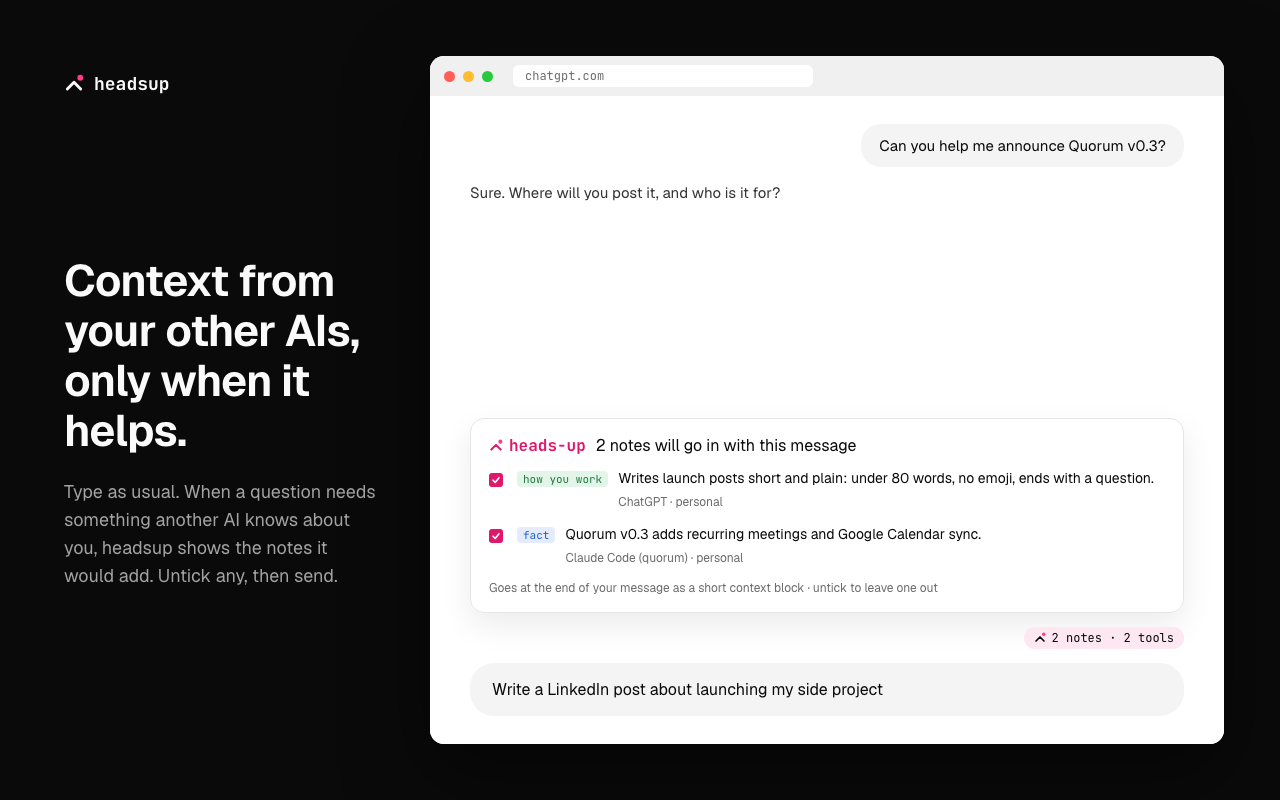
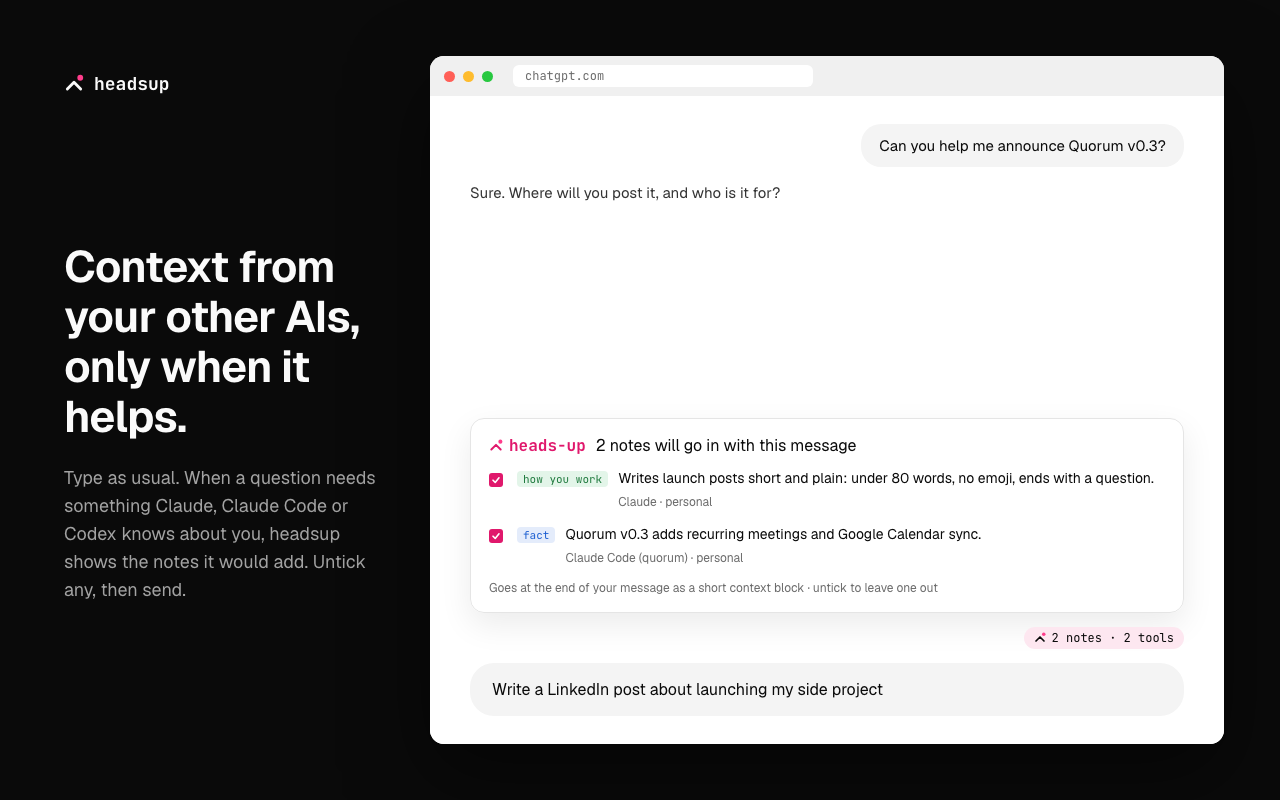
Redraw the store screenshots for current behavior
- The composer shot showed ChatGPT getting its own note back, which headsup
  never does; the writing note now comes from Claude
- The popup shot follows the real popup: both sync rows, About me with its
  preview link, Share my card, the headsup review footer
- The comparison shot uses the README's cover letter: without headsup the
  answer asks three questions, with it the internship and side project from
  Claude Code are in the letter

Claude-Session: https://claude.ai/code/session_01GyAvKzocYKibMHwLEW817N

Changed region(s): [[0.0312, 0.3125, 0.2812, 0.5625], [0.0312, 0.5938, 0.3125, 0.75], [0.5, 0.625, 0.5625, 0.6562]]

diff --git a/store/assets/src/screenshot-2-popup.html b/store/assets/src/screenshot-2-popup.html
@@ -9,10 +9,10 @@
 .bar{height:40px;background:#f0f0f0;display:flex;align-items:center;gap:8px;padding:0 14px}.d{width:11px;height:11px;border-radius:6px}
 .url{margin-left:12px;background:#fff;border-radius:6px;padding:3px 12px;font:12px JBM;color:#6b6b6b;width:300px}
 .mono{font-family:JBM}.mut{color:#6b6b6b}.tag{font:11px JBM;padding:1px 6px;border-radius:4px}
-</style><div class="frame"><div class="cap"><div class="brand"><svg width="20" height="20" viewBox="0 0 24 24" style="flex:none"><path d="M4 18 12 10l8 8" fill="none" stroke="#fafafa" stroke-width="3.4" stroke-linecap="round" stroke-linejoin="round"/><circle cx="19.5" cy="4.5" r="3.5" fill="#FF3D8B"/></svg>headsup</div><div style="flex:1"></div><h1>Your notes stay on your computer.</h1><p>Plain Markdown files, managed by the free headsup app. No server, no account, no analytics. Work facts wait for your OK before they cross over.</p><div style="flex:1"></div></div><div class="stage" style="justify-content:center;background:radial-gradient(circle at 60% 50%,#1a0a12,#0a0a0a 70%)"><div style="width:380px;background:#0a0a0a;border:1px solid #262626;border-radius:14px;padding:18px;display:flex;flex-direction:column;gap:14px;font-size:13px;line-height:18px;box-shadow:0 30px 80px rgba(0,0,0,.6)">
+</style><div class="frame"><div class="cap"><div class="brand"><svg width="20" height="20" viewBox="0 0 24 24" style="flex:none"><path d="M4 18 12 10l8 8" fill="none" stroke="#fafafa" stroke-width="3.4" stroke-linecap="round" stroke-linejoin="round"/><circle cx="19.5" cy="4.5" r="3.5" fill="#FF3D8B"/></svg>headsup</div><div style="flex:1"></div><h1>Your notes stay on your computer.</h1><p>Plain Markdown files, managed by the free headsup app. No server, no account, no analytics. Work and personal stay apart: work facts wait for your OK before they cross over.</p><div style="flex:1"></div></div><div class="stage" style="justify-content:center;background:radial-gradient(circle at 60% 50%,#1a0a12,#0a0a0a 70%)"><div style="width:380px;background:#0a0a0a;border:1px solid #262626;border-radius:14px;padding:18px;display:flex;flex-direction:column;gap:14px;font-size:13px;line-height:18px;box-shadow:0 30px 80px rgba(0,0,0,.6)">
 <div style="display:flex;justify-content:space-between"><span class="mono" style="display:flex;gap:7px;align-items:center;font-weight:700"><svg width="14" height="14" viewBox="0 0 24 24" style="flex:none"><path d="M4 18 12 10l8 8" fill="none" stroke="#fafafa" stroke-width="3.4" stroke-linecap="round" stroke-linejoin="round"/><circle cx="19.5" cy="4.5" r="3.5" fill="#FF3D8B"/></svg>headsup</span><span style="display:flex;gap:6px;align-items:center;color:#8f8f8f;font-size:12px"><span style="width:7px;height:7px;border-radius:4px;background:#4ade80"></span>Connected</span></div>
 <span style="color:#8f8f8f;font-size:12px">214 notes on this computer · sharing: Balanced</span><div style="height:1px;background:#262626"></div>
 <div class="mono" style="font-size:11px;letter-spacing:.06em;color:#8f8f8f">ON THIS SITE</div><div style="display:flex;justify-content:space-between;gap:16px"><div><div style="font-weight:500">Add context on chatgpt.com</div><div style="color:#8f8f8f;font-size:12px;line-height:17px">Shows the headsup mark when your notes can help.</div></div><span style="flex:none;width:32px;height:18px;border-radius:9px;background:#ff3d8b;position:relative"><span style="position:absolute;top:2px;left:16px;width:14px;height:14px;border-radius:7px;background:#fff"></span></span></div><div style="height:1px;background:#262626"></div>
-<div class="mono" style="font-size:11px;letter-spacing:.06em;color:#8f8f8f">KEEP IN SYNC</div><div style="display:flex;justify-content:space-between;gap:16px"><div><div style="font-weight:500">Capture new ChatGPT chats</div><div style="color:#8f8f8f;font-size:12px;line-height:17px">Phone and desktop app chats too. Caught up 10:40.</div></div><span style="flex:none;width:32px;height:18px;border-radius:9px;background:#ff3d8b;position:relative"><span style="position:absolute;top:2px;left:16px;width:14px;height:14px;border-radius:7px;background:#fff"></span></span></div><div style="display:flex;justify-content:space-between;gap:16px"><div><div style="font-weight:500">Keep “About me” current</div><div style="color:#8f8f8f;font-size:12px;line-height:17px">In ChatGPT and Claude, so their apps know how you work.</div></div><span style="flex:none;width:32px;height:18px;border-radius:9px;background:#ff3d8b;position:relative"><span style="position:absolute;top:2px;left:16px;width:14px;height:14px;border-radius:7px;background:#fff"></span></span></div><div style="height:1px;background:#262626"></div>
-<div class="mono" style="font-size:11px;letter-spacing:.06em;color:#8f8f8f">TODAY</div><div class="mono" style="display:flex;flex-direction:column;gap:8px;font-size:12px"><span><span style="color:#8f8f8f">10:42</span>&nbsp; Claude Code → ChatGPT · 2 notes</span><span><span style="color:#8f8f8f">09:15</span>&nbsp; ChatGPT → Claude Code · writing voice</span><span><span style="color:#8f8f8f">08:03</span>&nbsp; 1 work note asked · you said not now</span></div><div style="height:1px;background:#262626"></div>
-<span style="color:#8f8f8f;font-size:11px;line-height:16px">Notes stay on this computer. New chats are summarized with your own Claude login.</span></div></div></div>
+<div class="mono" style="font-size:11px;letter-spacing:.06em;color:#8f8f8f">KEEP IN SYNC</div><div style="display:flex;justify-content:space-between;gap:16px"><div><div style="font-weight:500">Capture new ChatGPT chats</div><div style="color:#8f8f8f;font-size:12px;line-height:17px">Phone and desktop app chats too. Caught up 10:40.</div></div><span style="flex:none;width:32px;height:18px;border-radius:9px;background:#ff3d8b;position:relative"><span style="position:absolute;top:2px;left:16px;width:14px;height:14px;border-radius:7px;background:#fff"></span></span></div><div style="display:flex;justify-content:space-between;gap:16px"><div><div style="font-weight:500">Capture new Claude chats</div><div style="color:#8f8f8f;font-size:12px;line-height:17px">Caught up 09:12.</div></div><span style="flex:none;width:32px;height:18px;border-radius:9px;background:#ff3d8b;position:relative"><span style="position:absolute;top:2px;left:16px;width:14px;height:14px;border-radius:7px;background:#fff"></span></span></div><div style="display:flex;justify-content:space-between;gap:16px"><div><div style="font-weight:500">Keep “About me” current</div><div style="color:#8f8f8f;font-size:12px;line-height:17px">12 lines in ChatGPT and Claude. <span style="color:#ff3d8b">See what it writes →</span></div></div><span style="flex:none;width:32px;height:18px;border-radius:9px;background:#ff3d8b;position:relative"><span style="position:absolute;top:2px;left:16px;width:14px;height:14px;border-radius:7px;background:#fff"></span></span></div><div style="height:1px;background:#262626"></div>
+<span style="color:#ff3d8b;font-size:13px;font-weight:500">Share my card →</span>
+<span style="color:#8f8f8f;font-size:11px;line-height:16px">Notes stay on this computer. See what was shared where: <span class="mono">headsup review</span></span></div></div></div>

diff --git a/store/assets/src/screenshot-1-composer.html b/store/assets/src/screenshot-1-composer.html
@@ -9,11 +9,11 @@
 .bar{height:40px;background:#f0f0f0;display:flex;align-items:center;gap:8px;padding:0 14px}.d{width:11px;height:11px;border-radius:6px}
 .url{margin-left:12px;background:#fff;border-radius:6px;padding:3px 12px;font:12px JBM;color:#6b6b6b;width:300px}
 .mono{font-family:JBM}.mut{color:#6b6b6b}.tag{font:11px JBM;padding:1px 6px;border-radius:4px}
-</style><div class="frame"><div class="cap"><div class="brand"><svg width="20" height="20" viewBox="0 0 24 24" style="flex:none"><path d="M4 18 12 10l8 8" fill="none" stroke="#fafafa" stroke-width="3.4" stroke-linecap="round" stroke-linejoin="round"/><circle cx="19.5" cy="4.5" r="3.5" fill="#FF3D8B"/></svg>headsup</div><div style="flex:1"></div><h1>Context from your other AIs, only when it helps.</h1><p>Type as usual. When a question needs something another AI knows about you, headsup shows the notes it would add. Untick any, then send.</p><div style="flex:1"></div></div><div class="stage"><div class="win"><div class="bar"><span class="d" style="background:#ff5f57"></span><span class="d" style="background:#febc2e"></span><span class="d" style="background:#28c840"></span><span class="url">chatgpt.com</span></div>
+</style><div class="frame"><div class="cap"><div class="brand"><svg width="20" height="20" viewBox="0 0 24 24" style="flex:none"><path d="M4 18 12 10l8 8" fill="none" stroke="#fafafa" stroke-width="3.4" stroke-linecap="round" stroke-linejoin="round"/><circle cx="19.5" cy="4.5" r="3.5" fill="#FF3D8B"/></svg>headsup</div><div style="flex:1"></div><h1>Context from your other AIs, only when it helps.</h1><p>Type as usual. When a question needs something Claude, Claude Code or Codex knows about you, headsup shows the notes it would add. Untick any, then send.</p><div style="flex:1"></div></div><div class="stage"><div class="win"><div class="bar"><span class="d" style="background:#ff5f57"></span><span class="d" style="background:#febc2e"></span><span class="d" style="background:#28c840"></span><span class="url">chatgpt.com</span></div>
 <div style="flex:1;display:flex;flex-direction:column;justify-content:flex-end;padding:28px 40px;gap:14px;background:#fff"><div style="align-self:flex-end;max-width:70%;border-radius:20px;background:#f4f4f4;padding:12px 18px;font-size:15px">Can you help me announce Quorum v0.3?</div><div style="font-size:15px;line-height:23px;color:#333;max-width:85%">Sure. Where will you post it, and who is it for?</div><div style="flex:1"></div>
 <div style="border:1px solid #e5e5e5;border-radius:14px;padding:16px 18px;display:flex;flex-direction:column;gap:12px;box-shadow:0 12px 32px rgba(0,0,0,.08)">
 <div style="display:flex;gap:10px;align-items:center"><b class="mono" style="display:flex;gap:6px;align-items:center;color:#e0186c"><svg width="14" height="14" viewBox="0 0 24 24" style="flex:none"><path d="M4 18 12 10l8 8" fill="none" stroke="#e0186c" stroke-width="3.4" stroke-linecap="round" stroke-linejoin="round"/><circle cx="19.5" cy="4.5" r="3.5" fill="#FF3D8B"/></svg>heads-up</b><span>2 notes will go in with this message</span></div>
-<label style="display:grid;grid-template-columns:18px auto 1fr;gap:4px 10px;align-items:baseline;font-size:14px;line-height:20px"><span style="width:14px;height:14px;border-radius:3px;background:#e0186c;display:inline-flex;align-items:center;justify-content:center;transform:translateY(2px)"><svg width="10" height="10" viewBox="0 0 10 10"><path d="M2 5.2 4.2 7.4 8 2.8" fill="none" stroke="#fff" stroke-width="1.6" stroke-linecap="round" stroke-linejoin="round"/></svg></span><span class="tag" style="color:#1f7a3e;background:#e3f5e9">how you work</span><span>Writes launch posts short and plain: under 80 words, no emoji, ends with a question.</span><span></span><span></span><span class="mut" style="font-size:12px">ChatGPT · personal</span></label>
+<label style="display:grid;grid-template-columns:18px auto 1fr;gap:4px 10px;align-items:baseline;font-size:14px;line-height:20px"><span style="width:14px;height:14px;border-radius:3px;background:#e0186c;display:inline-flex;align-items:center;justify-content:center;transform:translateY(2px)"><svg width="10" height="10" viewBox="0 0 10 10"><path d="M2 5.2 4.2 7.4 8 2.8" fill="none" stroke="#fff" stroke-width="1.6" stroke-linecap="round" stroke-linejoin="round"/></svg></span><span class="tag" style="color:#1f7a3e;background:#e3f5e9">how you work</span><span>Writes launch posts short and plain: under 80 words, no emoji, ends with a question.</span><span></span><span></span><span class="mut" style="font-size:12px">Claude · personal</span></label>
 <label style="display:grid;grid-template-columns:18px auto 1fr;gap:4px 10px;align-items:baseline;font-size:14px;line-height:20px"><span style="width:14px;height:14px;border-radius:3px;background:#e0186c;display:inline-flex;align-items:center;justify-content:center;transform:translateY(2px)"><svg width="10" height="10" viewBox="0 0 10 10"><path d="M2 5.2 4.2 7.4 8 2.8" fill="none" stroke="#fff" stroke-width="1.6" stroke-linecap="round" stroke-linejoin="round"/></svg></span><span class="tag" style="color:#1d5fd1;background:#e4ecfb">fact</span><span>Quorum v0.3 adds recurring meetings and Google Calendar sync.</span><span></span><span></span><span class="mut" style="font-size:12px">Claude Code (quorum) · personal</span></label>
 <p class="mut" style="font-size:12px;margin:0">Goes at the end of your message as a short context block · untick to leave one out</p></div>
 <div style="display:flex;justify-content:flex-end"><span class="mono" style="display:inline-flex;gap:6px;align-items:center;font-size:12px;padding:3px 10px;border-radius:999px;background:#fde7f0"><svg width="12" height="12" viewBox="0 0 24 24" style="flex:none"><path d="M4 18 12 10l8 8" fill="none" stroke="currentColor" stroke-width="3.4" stroke-linecap="round" stroke-linejoin="round"/><circle cx="19.5" cy="4.5" r="3.5" fill="#FF3D8B"/></svg>2 notes · 2 tools</span></div>

diff --git a/store/assets/src/screenshot-3-before-after.html b/store/assets/src/screenshot-3-before-after.html
@@ -9,13 +9,10 @@
 .bar{height:40px;background:#f0f0f0;display:flex;align-items:center;gap:8px;padding:0 14px}.d{width:11px;height:11px;border-radius:6px}
 .url{margin-left:12px;background:#fff;border-radius:6px;padding:3px 12px;font:12px JBM;color:#6b6b6b;width:300px}
 .mono{font-family:JBM}.mut{color:#6b6b6b}.tag{font:11px JBM;padding:1px 6px;border-radius:4px}
-</style><div class="frame"><div class="cap"><div class="brand"><svg width="20" height="20" viewBox="0 0 24 24" style="flex:none"><path d="M4 18 12 10l8 8" fill="none" stroke="#fafafa" stroke-width="3.4" stroke-linecap="round" stroke-linejoin="round"/><circle cx="19.5" cy="4.5" r="3.5" fill="#FF3D8B"/></svg>headsup</div><div style="flex:1"></div><h1>Same question. Now it knows you.</h1><p>Your writing voice lives in ChatGPT, your project lives in Claude Code. headsup brings the right one over before the answer is written.</p><div style="flex:1"></div></div><div class="stage" style="gap:20px;align-items:center"><div style="flex:1;min-height:440px;background:#141414;border:1px solid #262626;border-radius:14px;padding:24px;display:flex;flex-direction:column;gap:14px"><div class="mono" style="font-size:12px;letter-spacing:.06em;color:#8f8f8f">WITHOUT HEADSUP</div><div class="mono" style="font-size:14px;color:#a3a3a3">› write the v2.3 release notes in my voice</div><div class="mono" style="font-size:15px;line-height:24px;white-space:pre-wrap"># 🚀 v2.3 Release Notes
-We're excited to announce a range of improvements that make billing more robust than ever! ✨
+</style><div class="frame"><div class="cap"><div class="brand"><svg width="20" height="20" viewBox="0 0 24 24" style="flex:none"><path d="M4 18 12 10l8 8" fill="none" stroke="#fafafa" stroke-width="3.4" stroke-linecap="round" stroke-linejoin="round"/><circle cx="19.5" cy="4.5" r="3.5" fill="#FF3D8B"/></svg>headsup</div><div style="flex:1"></div><h1>Same question. Now it knows you.</h1><p>What you built lives in Claude Code; ChatGPT never saw it. headsup brings it over before the answer is written, so ChatGPT writes instead of asking.</p><div style="flex:1"></div></div><div class="stage" style="gap:20px;align-items:center"><div style="flex:1;min-height:440px;background:#141414;border:1px solid #262626;border-radius:14px;padding:24px;display:flex;flex-direction:column;gap:14px"><div class="mono" style="font-size:12px;letter-spacing:.06em;color:#8f8f8f">WITHOUT HEADSUP</div><div class="mono" style="font-size:14px;color:#a3a3a3">› help me write a cover letter for a PM internship</div><div style="font-size:16px;line-height:26px;white-space:pre-wrap">I'd be glad to help! To make it stand out, tell me a bit about you:
 
-## What's New
-- Enhanced webhook performance
-- Improved retry handling
-- Better error messages</div></div><div style="flex:1;min-height:440px;background:#141414;border:1px solid #ff3d8b;border-radius:14px;padding:24px;display:flex;flex-direction:column;gap:14px"><div class="mono" style="font-size:12px;letter-spacing:.06em;color:#ff3d8b">WITH HEADSUP</div><div class="mono" style="font-size:14px;color:#a3a3a3">› write the v2.3 release notes in my voice</div><div class="mono" style="font-size:13px;display:flex;gap:6px;align-items:center"><span style="color:#ff3d8b;display:flex;gap:6px;align-items:center;white-space:nowrap"><svg width="13" height="13" viewBox="0 0 24 24" style="flex:none"><path d="M4 18 12 10l8 8" fill="none" stroke="#ff3d8b" stroke-width="3.4" stroke-linecap="round" stroke-linejoin="round"/><circle cx="19.5" cy="4.5" r="3.5" fill="#FF3D8B"/></svg>heads-up</span><span style="color:#8f8f8f;white-space:nowrap">added 1 note from ChatGPT</span></div><div class="mono" style="font-size:15px;line-height:24px;white-space:pre-wrap">## v2.3
-Billing webhooks are faster.
-Retries no longer double-charge.
-Checkout errors now show a clear message, not a stack trace.</div></div></div></div>
+1. What projects have you built?
+2. Any results you can point to?
+3. Which company is it for?</div></div><div style="flex:1;min-height:440px;background:#141414;border:1px solid #ff3d8b;border-radius:14px;padding:24px;display:flex;flex-direction:column;gap:14px"><div class="mono" style="font-size:12px;letter-spacing:.06em;color:#ff3d8b">WITH HEADSUP</div><div class="mono" style="font-size:14px;color:#a3a3a3">› help me write a cover letter for a PM internship</div><div class="mono" style="font-size:13px;display:flex;gap:6px;align-items:center"><span style="color:#ff3d8b;display:flex;gap:6px;align-items:center;white-space:nowrap"><svg width="13" height="13" viewBox="0 0 24 24" style="flex:none"><path d="M4 18 12 10l8 8" fill="none" stroke="#ff3d8b" stroke-width="3.4" stroke-linecap="round" stroke-linejoin="round"/><circle cx="19.5" cy="4.5" r="3.5" fill="#FF3D8B"/></svg>heads-up</span><span style="color:#8f8f8f;white-space:nowrap">3 notes from Claude Code</span></div><div style="font-size:16px;line-height:26px;white-space:pre-wrap">Dear hiring team,
+
+This summer I interned on <span style="color:#ff3d8b;font-weight:700;text-decoration:underline">the payments team at Northwind</span>, where I <span style="color:#ff3d8b;font-weight:700;text-decoration:underline">shipped payout retries that cut failed payouts by 30%</span>. On the side I built <span style="color:#ff3d8b;font-weight:700;text-decoration:underline">Quorum, a web app that finds a meeting time for student clubs</span>. ...</div></div></div></div>

diff --git a/store/assets/src/gen.py b/store/assets/src/gen.py
@@ -15,11 +15,11 @@ CSS='''<style>
 def page(body): return '<!doctype html><meta charset=utf-8>'+CSS+body
 cap=lambda h,p: f'<div class="cap"><div class="brand">{G(20,True,"#fafafa")}headsup</div><div style="flex:1"></div><h1>{h}</h1><p>{p}</p><div style="flex:1"></div></div>'
 note=lambda t,body,src: f'<label style="display:grid;grid-template-columns:18px auto 1fr;gap:4px 10px;align-items:baseline;font-size:14px;line-height:20px"><span style="width:14px;height:14px;border-radius:3px;background:#e0186c;display:inline-flex;align-items:center;justify-content:center;transform:translateY(2px)"><svg width="10" height="10" viewBox="0 0 10 10"><path d="M2 5.2 4.2 7.4 8 2.8" fill="none" stroke="#fff" stroke-width="1.6" stroke-linecap="round" stroke-linejoin="round"/></svg></span><span class="tag" style="{"color:#1f7a3e;background:#e3f5e9" if t=="how" else "color:#1d5fd1;background:#e4ecfb"}">{"how you work" if t=="how" else "fact"}</span><span>{body}</span><span></span><span></span><span class="mut" style="font-size:12px">{src}</span></label>'
-s1=page('<div class="frame">'+cap('Context from your other AIs, only when it helps.','Type as usual. When a question needs something another AI knows about you, headsup shows the notes it would add. Untick any, then send.')+f'''<div class="stage"><div class="win"><div class="bar"><span class="d" style="background:#ff5f57"></span><span class="d" style="background:#febc2e"></span><span class="d" style="background:#28c840"></span><span class="url">chatgpt.com</span></div>
+s1=page('<div class="frame">'+cap('Context from your other AIs, only when it helps.','Type as usual. When a question needs something Claude, Claude Code or Codex knows about you, headsup shows the notes it would add. Untick any, then send.')+f'''<div class="stage"><div class="win"><div class="bar"><span class="d" style="background:#ff5f57"></span><span class="d" style="background:#febc2e"></span><span class="d" style="background:#28c840"></span><span class="url">chatgpt.com</span></div>
 <div style="flex:1;display:flex;flex-direction:column;justify-content:flex-end;padding:28px 40px;gap:14px;background:#fff"><div style="align-self:flex-end;max-width:70%;border-radius:20px;background:#f4f4f4;padding:12px 18px;font-size:15px">Can you help me announce Quorum v0.3?</div><div style="font-size:15px;line-height:23px;color:#333;max-width:85%">Sure. Where will you post it, and who is it for?</div><div style="flex:1"></div>
 <div style="border:1px solid #e5e5e5;border-radius:14px;padding:16px 18px;display:flex;flex-direction:column;gap:12px;box-shadow:0 12px 32px rgba(0,0,0,.08)">
 <div style="display:flex;gap:10px;align-items:center"><b class="mono" style="display:flex;gap:6px;align-items:center;color:#e0186c">{G(14,True,"#e0186c")}heads-up</b><span>2 notes will go in with this message</span></div>
-{note("how","Writes launch posts short and plain: under 80 words, no emoji, ends with a question.","ChatGPT · personal")}
+{note("how","Writes launch posts short and plain: under 80 words, no emoji, ends with a question.","Claude · personal")}
 {note("fact","Quorum v0.3 adds recurring meetings and Google Calendar sync.","Claude Code (quorum) · personal")}
 <p class="mut" style="font-size:12px;margin:0">Goes at the end of your message as a short context block · untick to leave one out</p></div>
 <div style="display:flex;justify-content:flex-end"><span class="mono" style="display:inline-flex;gap:6px;align-items:center;font-size:12px;padding:3px 10px;border-radius:999px;background:#fde7f0">{G(12)}2 notes · 2 tools</span></div>
@@ -32,11 +32,12 @@ pop=f'''<div style="width:380px;background:#0a0a0a;border:1px solid #262626;bord
 <div style="display:flex;justify-content:space-between"><span class="mono" style="display:flex;gap:7px;align-items:center;font-weight:700">{G(14,True,"#fafafa")}headsup</span><span style="display:flex;gap:6px;align-items:center;color:#8f8f8f;font-size:12px"><span style="width:7px;height:7px;border-radius:4px;background:#4ade80"></span>Connected</span></div>
 <span style="color:#8f8f8f;font-size:12px">214 notes on this computer · sharing: Balanced</span>{hr}
 {sec("ON THIS SITE")}{row("Add context on chatgpt.com","Shows the headsup mark when your notes can help.",True)}{hr}
-{sec("KEEP IN SYNC")}{row("Capture new ChatGPT chats","Phone and desktop app chats too. Caught up 10:40.",True)}{row("Keep “About me” current","In ChatGPT and Claude, so their apps know how you work.",True)}{hr}
-{sec("TODAY")}<div class="mono" style="display:flex;flex-direction:column;gap:8px;font-size:12px"><span><span style="color:#8f8f8f">10:42</span>&nbsp; Claude Code → ChatGPT · 2 notes</span><span><span style="color:#8f8f8f">09:15</span>&nbsp; ChatGPT → Claude Code · writing voice</span><span><span style="color:#8f8f8f">08:03</span>&nbsp; 1 work note asked · you said not now</span></div>{hr}
-<span style="color:#8f8f8f;font-size:11px;line-height:16px">Notes stay on this computer. New chats are summarized with your own Claude login.</span></div>'''
-s2=page('<div class="frame">'+cap('Your notes stay on your computer.','Plain Markdown files, managed by the free headsup app. No server, no account, no analytics. Work facts wait for your OK before they cross over.')+f'<div class="stage" style="justify-content:center;background:radial-gradient(circle at 60% 50%,#1a0a12,#0a0a0a 70%)">{pop}</div></div>')
-card=lambda title,head,body,hl: f'<div style="flex:1;min-height:440px;background:{"#141414" if not hl else "#141414"};border:1px solid {"#ff3d8b" if hl else "#262626"};border-radius:14px;padding:24px;display:flex;flex-direction:column;gap:14px"><div class="mono" style="font-size:12px;letter-spacing:.06em;color:{"#ff3d8b" if hl else "#8f8f8f"}">{title}</div><div class="mono" style="font-size:14px;color:#a3a3a3">› write the v2.3 release notes in my voice</div>{head}<div class="mono" style="font-size:15px;line-height:24px;white-space:pre-wrap">{body}</div></div>'
-s3=page('<div class="frame">'+cap('Same question. Now it knows you.','Your writing voice lives in ChatGPT, your project lives in Claude Code. headsup brings the right one over before the answer is written.')+'<div class="stage" style="gap:20px;align-items:center">'+card('WITHOUT HEADSUP','', '# 🚀 v2.3 Release Notes\nWe\'re excited to announce a range of improvements that make billing more robust than ever! ✨\n\n## What\'s New\n- Enhanced webhook performance\n- Improved retry handling\n- Better error messages',False)+card('WITH HEADSUP',f'<div class="mono" style="font-size:13px;display:flex;gap:6px;align-items:center"><span style="color:#ff3d8b;display:flex;gap:6px;align-items:center;white-space:nowrap">{G(13,True,"#ff3d8b")}heads-up</span><span style="color:#8f8f8f;white-space:nowrap">added 1 note from ChatGPT</span></div>','## v2.3\nBilling webhooks are faster.\nRetries no longer double-charge.\nCheckout errors now show a clear message, not a stack trace.',True)+'</div></div>')
+{sec("KEEP IN SYNC")}{row("Capture new ChatGPT chats","Phone and desktop app chats too. Caught up 10:40.",True)}{row("Capture new Claude chats","Caught up 09:12.",True)}{row("Keep “About me” current","12 lines in ChatGPT and Claude. <span style=\"color:#ff3d8b\">See what it writes →</span>",True)}{hr}
+<span style="color:#ff3d8b;font-size:13px;font-weight:500">Share my card →</span>
+<span style="color:#8f8f8f;font-size:11px;line-height:16px">Notes stay on this computer. See what was shared where: <span class="mono">headsup review</span></span></div>'''
+s2=page('<div class="frame">'+cap('Your notes stay on your computer.','Plain Markdown files, managed by the free headsup app. No server, no account, no analytics. Work and personal stay apart: work facts wait for your OK before they cross over.')+f'<div class="stage" style="justify-content:center;background:radial-gradient(circle at 60% 50%,#1a0a12,#0a0a0a 70%)">{pop}</div></div>')
+hl=lambda t: f'<span style="color:#ff3d8b;font-weight:700;text-decoration:underline">{t}</span>'
+card=lambda title,head,body,on: f'<div style="flex:1;min-height:440px;background:#141414;border:1px solid {"#ff3d8b" if on else "#262626"};border-radius:14px;padding:24px;display:flex;flex-direction:column;gap:14px"><div class="mono" style="font-size:12px;letter-spacing:.06em;color:{"#ff3d8b" if on else "#8f8f8f"}">{title}</div><div class="mono" style="font-size:14px;color:#a3a3a3">› help me write a cover letter for a PM internship</div>{head}<div style="font-size:16px;line-height:26px;white-space:pre-wrap">{body}</div></div>'
+s3=page('<div class="frame">'+cap('Same question. Now it knows you.','What you built lives in Claude Code; ChatGPT never saw it. headsup brings it over before the answer is written, so ChatGPT writes instead of asking.')+'<div class="stage" style="gap:20px;align-items:center">'+card('WITHOUT HEADSUP','', "I\'d be glad to help! To make it stand out, tell me a bit about you:\n\n1. What projects have you built?\n2. Any results you can point to?\n3. Which company is it for?",False)+card('WITH HEADSUP',f'<div class="mono" style="font-size:13px;display:flex;gap:6px;align-items:center"><span style="color:#ff3d8b;display:flex;gap:6px;align-items:center;white-space:nowrap">{G(13,True,"#ff3d8b")}heads-up</span><span style="color:#8f8f8f;white-space:nowrap">3 notes from Claude Code</span></div>',f"Dear hiring team,\n\nThis summer I interned on {hl('the payments team at Northwind')}, where I {hl('shipped payout retries that cut failed payouts by 30%')}. On the side I built {hl('Quorum, a web app that finds a meeting time for student clubs')}. ...",True)+'</div></div>')
 promo='<!doctype html><meta charset=utf-8>'+CSS.replace('width:1280px;height:800px','width:440px;height:280px')+f'<div style="height:280px;display:flex;flex-direction:column;justify-content:center;gap:16px;padding:0 36px;background:radial-gradient(circle at 85% 20%,#2a0d1b,#0a0a0a 60%)"><div style="display:flex;gap:14px;align-items:center">{ICON(56)}<span class="mono" style="font-size:30px;font-weight:700">headsup</span></div><div style="font-size:21px;line-height:28px;font-weight:600">Gives your AI a heads-up<br>before it answers.</div></div>'
 for n,h in [('screenshot-1-composer',s1),('screenshot-2-popup',s2),('screenshot-3-before-after',s3),('promo-small',promo)]: open(n+'.html','w').write(h)
